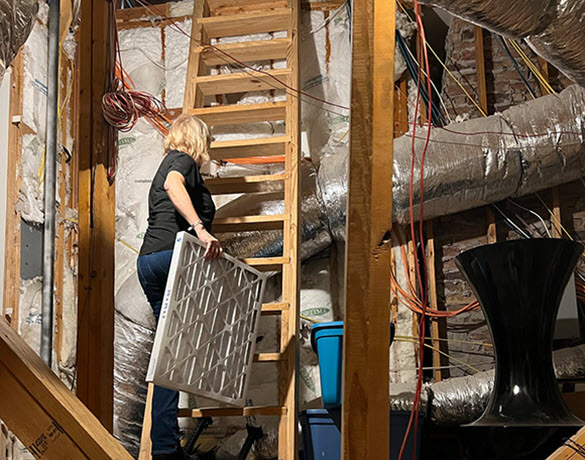
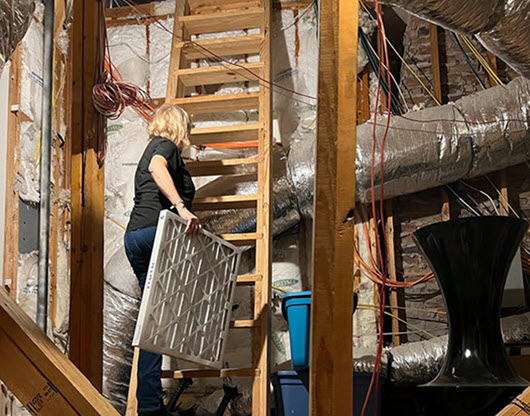
resized images on home services page

diff --git a/pages/homewatch-services.js b/pages/homewatch-services.js
@@ -13,19 +13,28 @@ function HomeWatchServicesPage(props) {
           name="description"
           content="Home Watch Services Photo Gallery answers the question 'What Does A Home Watch Service Do?' "
         />
-            <meta property="fb:app_id" content="8620778781329629" />
+        <meta property="fb:app_id" content="8620778781329629" />
         <meta property="og:type" content="website" />
         <meta property="og:site_name" content="Dallas Home Watch" />
 
-        <meta property="og:url"  content="https://www.dallashomewatch.com/homewatch-services"  />
+        <meta
+          property="og:url"
+          content="https://www.dallashomewatch.com/homewatch-services"
+        />
         <meta property="og:title" content="Home Watch Services" />
-        <meta property="og:description" content="Home Watch Services Photo Gallery answers the question
+        <meta
+          property="og:description"
+          content="Home Watch Services Photo Gallery answers the question
          'What Does A Home Watch Service Do?' Home Watch Professionals look for water leaks, mold, 
-         roken items and answer alarms."  />
-        <meta property="og:image:url"   content="httpg" />
+         roken items and answer alarms."
+        />
+        <meta property="og:image:url" content="httpg" />
         <meta property="og:image:width" content="1200px" />
         <meta property="og:image:height" content="630px" />
-        <meta property="og:image:alt" content="Dallas Home Watch Professionals checking Homes." />
+        <meta
+          property="og:image:alt"
+          content="Dallas Home Watch Professionals checking Homes."
+        />
       </Head>
       {/* insert top banner with Page Title & Breadcrumb*/}
       <section className="page-title pageback-con">
@@ -47,7 +56,7 @@ function HomeWatchServicesPage(props) {
             <div className="lower-content">
               <h2 className="pageTitle"> Photo Gallery</h2>
               <div className="auto-container">
-                <div className="sec-title centered ">
+                <div className="sec-title centered">
                   {/* Services Block 1 - Security Alarms */}
                   <div className="services-block-three">
                     <div
@@ -75,8 +84,8 @@ function HomeWatchServicesPage(props) {
                           <div className="inner-column">
                             <div className="image">
                               <Image
-                                width={585}
-                                height={460}
+                                width={530}
+                                height={416}
                                 src="/images/hw-check/security-alarm-inspection.jpg"
                                 alt="home security alarm inspection"
                               />
@@ -99,8 +108,8 @@ function HomeWatchServicesPage(props) {
                           <div className="inner-column">
                             <div className="image">
                               <Image
-                                width={585}
-                                height={460}
+                                width={530}
+                                height={416}
                                 src="/images/hw-check/bar-sink-inspection.jpg"
                                 alt="bar sink inspection"
                               />
@@ -125,7 +134,7 @@ function HomeWatchServicesPage(props) {
                       </div>
                     </div>
                   </div>
-                  {/* Services Block 3 - Electrical Closets */}
+                  {/* Services Block 3 - Media Closets */}
                   <div className="services-block-three">
                     <div
                       className="inner-box wow fadeInUp"
@@ -154,8 +163,8 @@ function HomeWatchServicesPage(props) {
                           <div className="inner-column">
                             <div className="image">
                               <Image
-                                width={585}
-                                height={460}
+                                width={530}
+                                height={416}
                                 src="/images/hw-check/electronics-closet-inspection.jpg"
                                 alt="media equipment inspection"
                               />
@@ -178,8 +187,8 @@ function HomeWatchServicesPage(props) {
                           <div className="inner-column">
                             <div className="image">
                               <Image
-                                width={585}
-                                height={460}
+                                width={530}
+                                height={416}
                                 src="/images/hw-check/router-inspection.jpg"
                                 alt="troubleshooting home router"
                               />
@@ -235,8 +244,8 @@ function HomeWatchServicesPage(props) {
                           <div className="inner-column">
                             <div className="image">
                               <Image
-                                width={585}
-                                height={460}
+                                width={530}
+                                height={416}
                                 src="/images/hw-check/air-filter-replacement.jpg"
                                 alt="replacing air filters in attic"
                               />
@@ -259,8 +268,8 @@ function HomeWatchServicesPage(props) {
                           <div className="inner-column">
                             <div className="image">
                               <Image
-                                width={585}
-                                height={460}
+                                width={530}
+                                height={416}
                                 src="/images/hw-check/attic-ac-inspection.jpg"
                                 alt="air conditioner inspection in 
                         attic"
@@ -309,8 +318,8 @@ function HomeWatchServicesPage(props) {
                           <div className="inner-column">
                             <div className="image">
                               <Image
-                                width={585}
-                                height={460}
+                                width={530}
+                                height={416}
                                 src="/images/hw-check/breaker-box-inspection.jpg"
                                 alt="checking breaker box"
                               />
@@ -333,8 +342,8 @@ function HomeWatchServicesPage(props) {
                           <div className="inner-column">
                             <div className="image">
                               <Image
-                                width={585}
-                                height={460}
+                                width={530}
+                                height={416}
                                 src="/images/hw-check/washing-machine-inspection.jpg"
                                 alt="visual inspection of the washing machine"
                               />
@@ -387,8 +396,8 @@ function HomeWatchServicesPage(props) {
                           <div className="inner-column">
                             <div className="image">
                               <Image
-                                width={585}
-                                height={460}
+                                width={530}
+                                height={416}
                                 src="/images/hw-check/refrigerator-inspection.jpg"
                                 alt="refrigerator inspection"
                               />
@@ -411,8 +420,8 @@ function HomeWatchServicesPage(props) {
                           <div className="inner-column">
                             <div className="image">
                               <Image
-                                width={585}
-                                height={460}
+                                width={530}
+                                height={416}
                                 src="/images/hw-check/faucet-sink-inspection.jpg"
                                 alt="running water faucet"
                               />
@@ -455,8 +464,8 @@ function HomeWatchServicesPage(props) {
                           <div className="inner-column">
                             <div className="image">
                               <Image
-                                width={585}
-                                height={460}
+                                width={530}
+                                height={416}
                                 src="/images/hw-check/toilets-and-tubs.jpg"
                                 alt="toilet flushing near tub"
                               />
@@ -479,8 +488,8 @@ function HomeWatchServicesPage(props) {
                           <div className="inner-column">
                             <div className="image">
                               <Image
-                                width={585}
-                                height={460}
+                                width={530}
+                                height={416}
                                 src="/images/hw-check/swimming-pool.jpg"
                                 alt="swimming pools and fountains"
                               />
@@ -526,8 +535,8 @@ function HomeWatchServicesPage(props) {
                           <div className="inner-column">
                             <div className="image">
                               <Image
-                                width={585}
-                                height={460}
+                                width={530}
+                                height={416}
                                 src="/images/hw-check/watercop-device.jpg"
                                 alt="water filter inspection"
                               />
@@ -550,8 +559,8 @@ function HomeWatchServicesPage(props) {
                           <div className="inner-column">
                             <div className="image">
                               <Image
-                                width={585}
-                                height={460}
+                                width={530}
+                                height={416}
                                 src="/images/hw-check/trash-cans.jpg"
                                 alt="trash cans in garage"
                               />
@@ -605,8 +614,8 @@ function HomeWatchServicesPage(props) {
                           <div className="inner-column">
                             <div className="image">
                               <Image
-                                width={585}
-                                height={460}
+                                width={530}
+                                height={416}
                                 src="/images/hw-check/securing-back-doors.jpg"
                                 alt="water filter inspection"
                               />
@@ -629,8 +638,8 @@ function HomeWatchServicesPage(props) {
                           <div className="inner-column">
                             <div className="image">
                               <Image
-                                width={585}
-                                height={460}
+                                width={530}
+                                height={416}
                                 src="/images/hw-check/securing-back-gate.jpg"
                                 alt="trash cans in garage"
                               />
